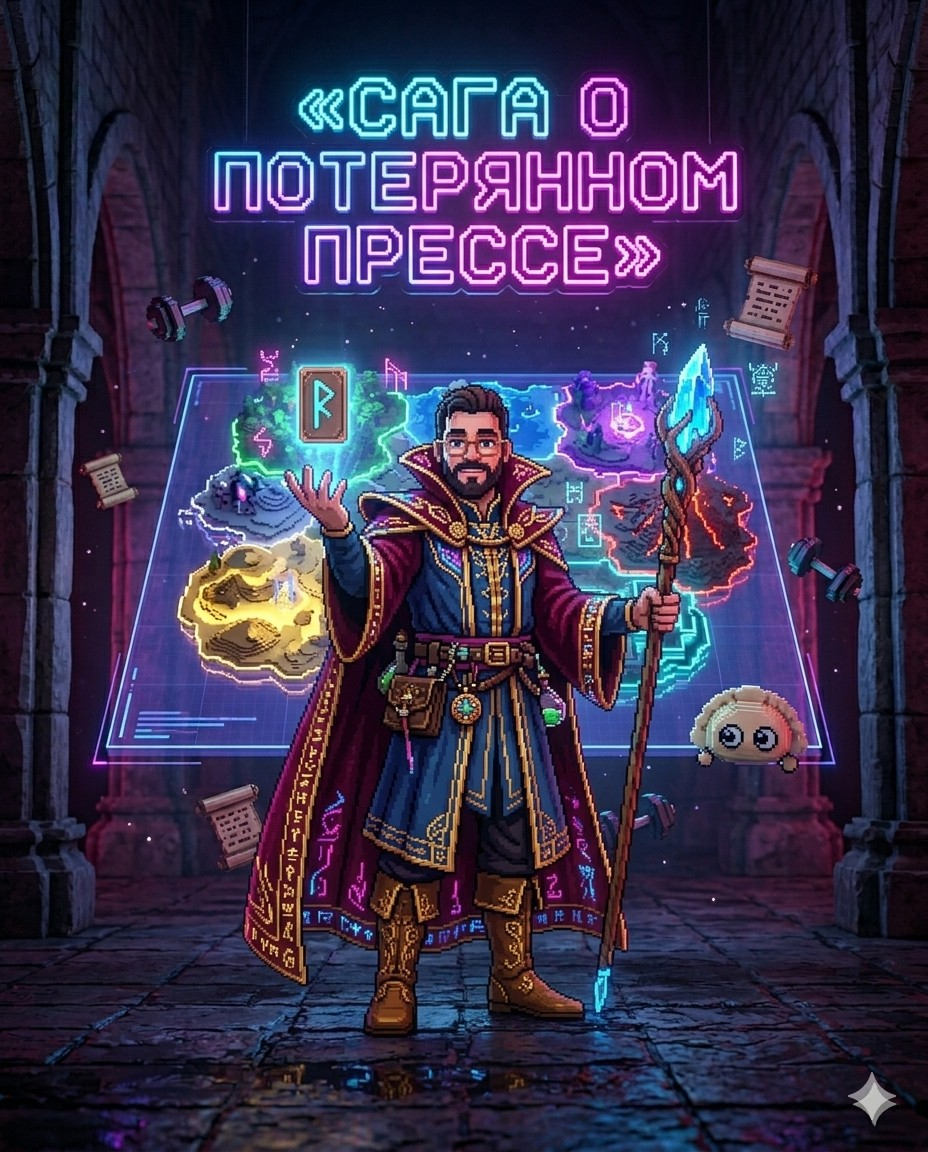
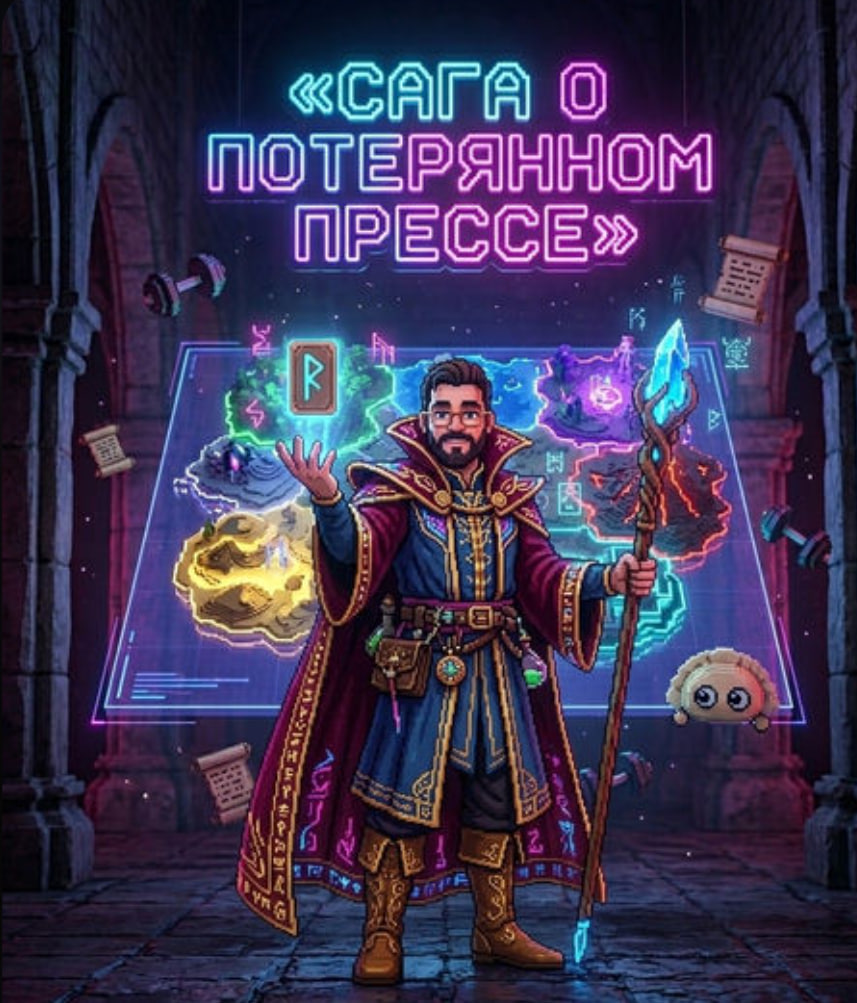
fix: use new intro.jpeg, send photo+caption+keyboard in single message
- Replace intro.jpeg with newly uploaded artwork
- Combine sendPhoto with caption+reply_markup so image and text arrive
  as one message — avoids race conditions / Telegram dropping the photo
- Add fallback to sendMessage if sendPhoto fails (URL unreachable, etc.)
- Same fallback for guide PDFs: notify user even if document fails

https://claude.ai/code/session_01N6DxWRp4khY5HgtMEv6jqv

diff --git a/api/bot.py b/api/bot.py
@@ -526,6 +526,20 @@ def apply_effects(uid, effects):
     return extra_msgs
 
 
+def build_reply_markup(step):
+    if "inline" in step:
+        return {"inline_keyboard": step["inline"]}
+    if step.get("input"):
+        return {"remove_keyboard": True}
+    if "buttons" in step:
+        return {
+            "keyboard": [[{"text": b[0]}] for b in step["buttons"]],
+            "resize_keyboard": True,
+            "one_time_keyboard": False,
+        }
+    return None
+
+
 def send_step(chat_id, step_id):
     uid = chat_id
     s = get_state(uid)
@@ -545,23 +559,27 @@ def send_step(chat_id, step_id):
         send_text(chat_id, f"⚠️ Шаг {step_id} не найден. Нажми /start, чтобы начать сначала.")
         return
 
+    text = step.get("text", "")
+    reply_markup = build_reply_markup(step)
     img_key = step.get("image")
+
     if img_key and img_key in IMAGES:
         img_path = IMAGES[img_key]
         base = get_base_url()
         img_url = (base + img_path) if (base and img_path.startswith("/")) else img_path
         print(f"[img] sending {img_url}")
-        send_photo(chat_id, img_url)
+        if len(text) <= 1024:
+            result = tg("sendPhoto", chat_id=chat_id, photo=img_url,
+                        caption=text, reply_markup=reply_markup)
+            if result and result.get("ok"):
+                return
+            print(f"[img] sendPhoto failed for {img_url}: {result}")
+        else:
+            photo_result = tg("sendPhoto", chat_id=chat_id, photo=img_url)
+            if photo_result and not photo_result.get("ok"):
+                print(f"[img] sendPhoto failed for {img_url}: {photo_result}")
 
-    if "inline" in step:
-        send_text(chat_id, step["text"], inline_kb=step["inline"])
-    elif step.get("input"):
-        send_text(chat_id, step["text"], remove_kb=True)
-    elif "buttons" in step:
-        labels = [b[0] for b in step["buttons"]]
-        send_text(chat_id, step["text"], reply_kb=labels)
-    else:
-        send_text(chat_id, step["text"])
+    tg("sendMessage", chat_id=chat_id, text=text, reply_markup=reply_markup)
 
 
 def send_extras(chat_id, extras):
@@ -573,7 +591,10 @@ def send_extras(chat_id, extras):
             base = get_base_url()
             if base:
                 url = f"{base}/guides/{val}"
-                send_document(chat_id, url, caption=f"🎁 {title}")
+                result = tg("sendDocument", chat_id=chat_id, document=url, caption=f"🎁 {title}")
+                if not (result and result.get("ok")):
+                    print(f"[guide] sendDocument failed for {url}: {result}")
+                    send_text(chat_id, f"🎁 Награда: {title}")
             else:
                 send_text(chat_id, f"🎁 Награда: {title}")
 